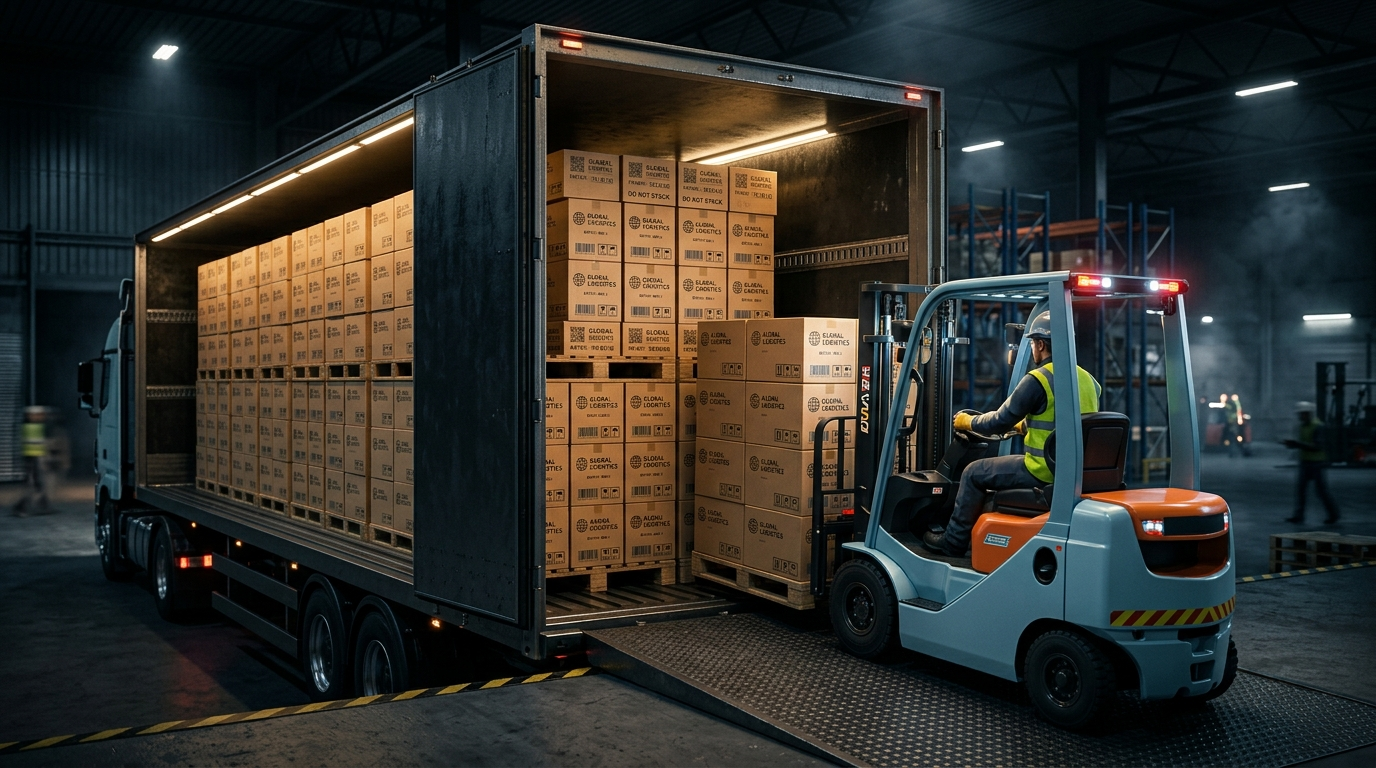
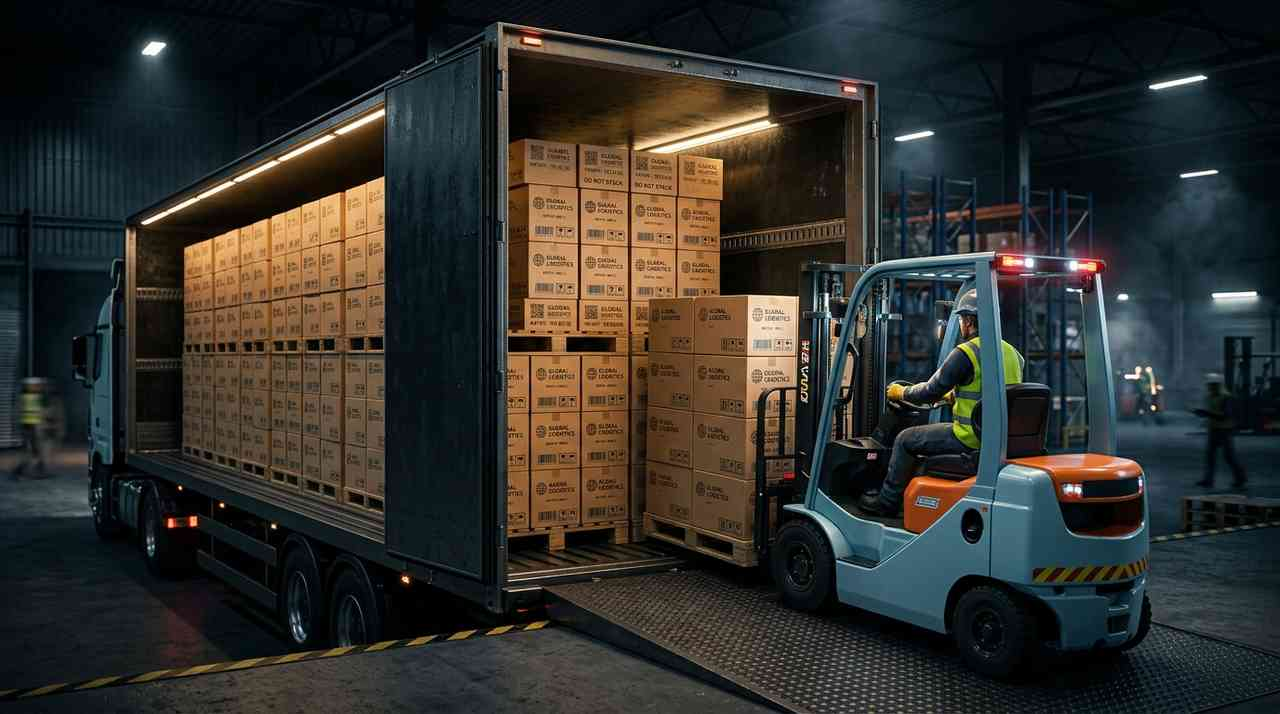
step one of the customer-app

diff --git a/src/components/hero/HeroSection.tsx b/src/components/hero/HeroSection.tsx
@@ -29,8 +29,8 @@ export default function HeroSection({ onOpenContact }: HeroSectionProps) {
         poster="/assets/hero-poster.png"
         className="absolute inset-0 w-full h-full object-cover z-0"
       >
-        <source src="https://videos.pexels.com/video-files/29726641/12780046_1920_1080_30fps.mp4" type="video/mp4" />
-        <source src="https://videos.pexels.com/video-files/29726641/12780046_3840_2160_30fps.mp4" type="video/mp4" />
+        <source src="https://cdn.pixabay.com/video/2021/08/04/83907-584735166_large.mp4" type="video/mp4" />
+        <source src="https://cdn.pixabay.com/video/2021/08/04/83907-584735166_tiny.mp4" type="video/mp4" />
       </video>
 
       {/* Overlay to make text readable */}

diff --git a/src/components/sections/BackhaulSection.tsx b/src/components/sections/BackhaulSection.tsx
@@ -120,7 +120,7 @@ export default function BackhaulSection() {
             src="/assets/backhaul-video.mp4"
             muted={isMuted}
             playsInline
-            preload="auto"
+            preload="none"
             poster="/assets/backhaul.png"
             className="w-full h-auto object-cover"
           />

diff --git a/compress.py b/compress.py
@@ -1,0 +1,28 @@
+import os
+from PIL import Image
+import glob
+
+def compress_images(directory):
+    for filepath in glob.glob(os.path.join(directory, '**', '*.*'), recursive=True):
+        ext = filepath.lower().split('.')[-1]
+        if ext in ['jpg', 'jpeg', 'png']:
+            try:
+                print(f"Compressing {filepath}...")
+                img = Image.open(filepath)
+                # Convert to RGB if PNG with transparency to save as JPEG/WebP or just save as low quality JPEG
+                if img.mode in ("RGBA", "P"):
+                    img = img.convert("RGB")
+                
+                # Resize if it's very large
+                max_size = 1280
+                if img.width > max_size or img.height > max_size:
+                    img.thumbnail((max_size, max_size), Image.Resampling.LANCZOS)
+                
+                # Overwrite the original file with heavily compressed version
+                img.save(filepath, quality=30, optimize=True)
+                print(f"Success: {filepath}")
+            except Exception as e:
+                print(f"Failed {filepath}: {e}")
+
+compress_images(r"d:\Margix-main\public")
+compress_images(r"d:\Margix-main\src\assets")
